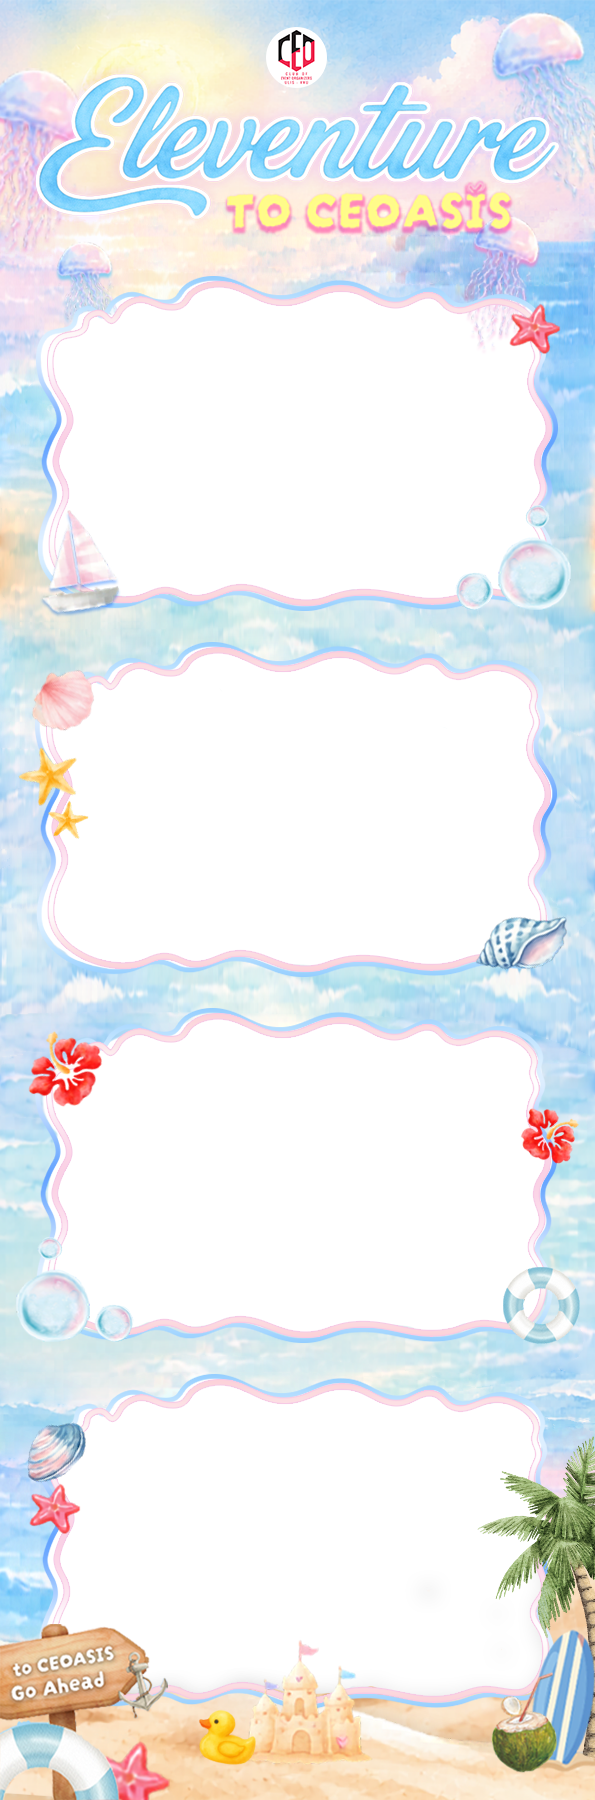
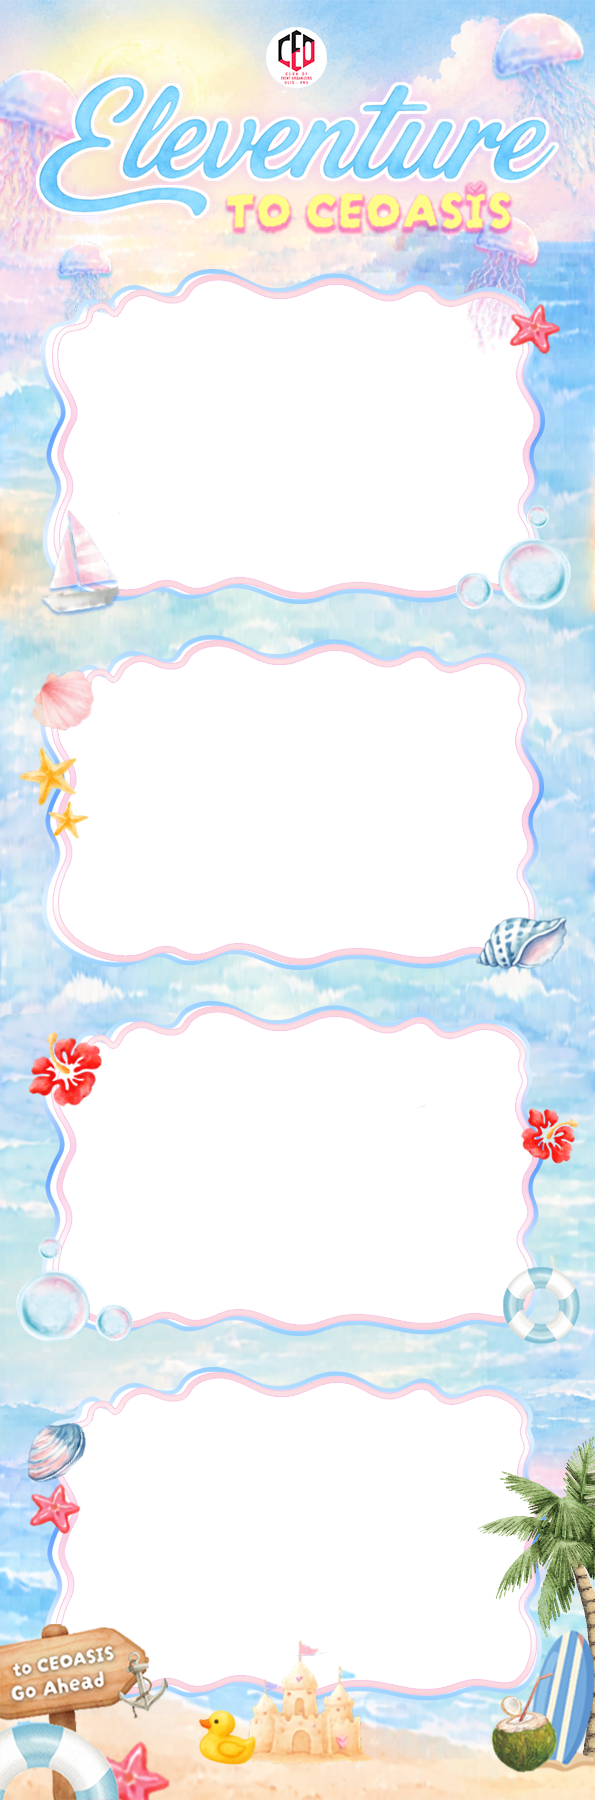
slightly modify frame4

diff --git a/app.js b/app.js
@@ -38,14 +38,14 @@ let FRAME_POSITIONS = {
     },
     "./Frames/PTB_4.png": {
         "photoSize": {
-            "width": 490,
-            "height": 310
+            "width": 472,
+            "height": 311
         },
         "positions": [
-            { "x": 54, "y": 288, "centerX": false },
-            { "x": 53, "y": 654, "centerX": false },
-            { "x": 54, "y": 1020, "centerX": false },
-            { "x": 59, "y": 1386, "centerX": false }
+            { "x": 59, "y": 281, "centerX": false },
+            { "x": 59, "y": 647, "centerX": false },
+            { "x": 60, "y": 1013, "centerX": false },
+            { "x": 63, "y": 1379, "centerX": false }
         ]
     },
     "./Frames/PTB_6.png": {
